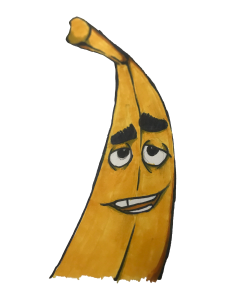
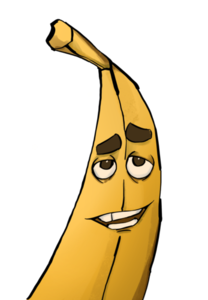
digital banana + credit

diff --git a/templates/index.html b/templates/index.html
@@ -45,7 +45,9 @@
 					<b>Matrix: @crispy-caesus:matrix.org</b>
 				</div>
 			</footer>
-
+                <div class="credits">
+                    <br>banana drawn by the amazing <a title="VanillaPunkk Instagram" href="https://www.instagram.com/vannillapunkk/">VanillaPunkk</a>
+                </div>
 		</article>
 	</div>
 </body>
